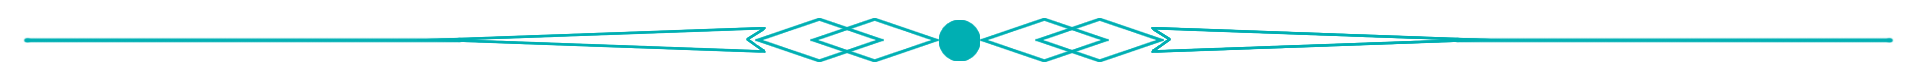
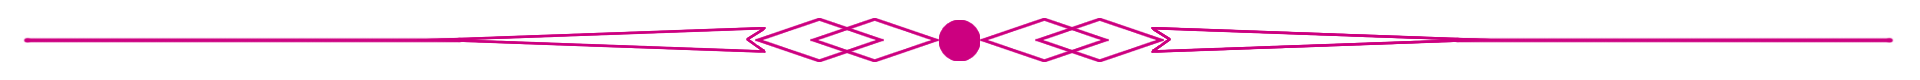
Minor changes and added streak stats

Changed region(s): [[0.0, 0.225, 1.0, 0.775]]

diff --git a/README.md b/README.md
@@ -6,6 +6,14 @@
   
 - 🌱 I'm currently learning Machine Learning, Front-End Web Development and Data Structures-Algorithms.
   
-- 💬 Ask me about UI designs, YouTube and Pokemon!
+- 💬 Ask me about UI designs, YouTube and Pokémon!
   
-- 📫 How to reach me **samarth.tumdi@gmail.com**
+#### 📫 How to reach me 
+<a href="mailto:samarth.tumdi@gmail.com"> <img src="https://img.icons8.com/fluent/48/000000/gmail.png" width="3.5%"/>
+
+<!-- Stats -->
+[![GitHub Streak](https://streak-stats.demolab.com?user=Skyoxima&theme=radical&border_radius=20&fire=FFD600)](https://git.io/streak-stats)
+
+
+<!-- Footer border -->
+<img src="assets/line_divider_color.png" alt="topDivider">
